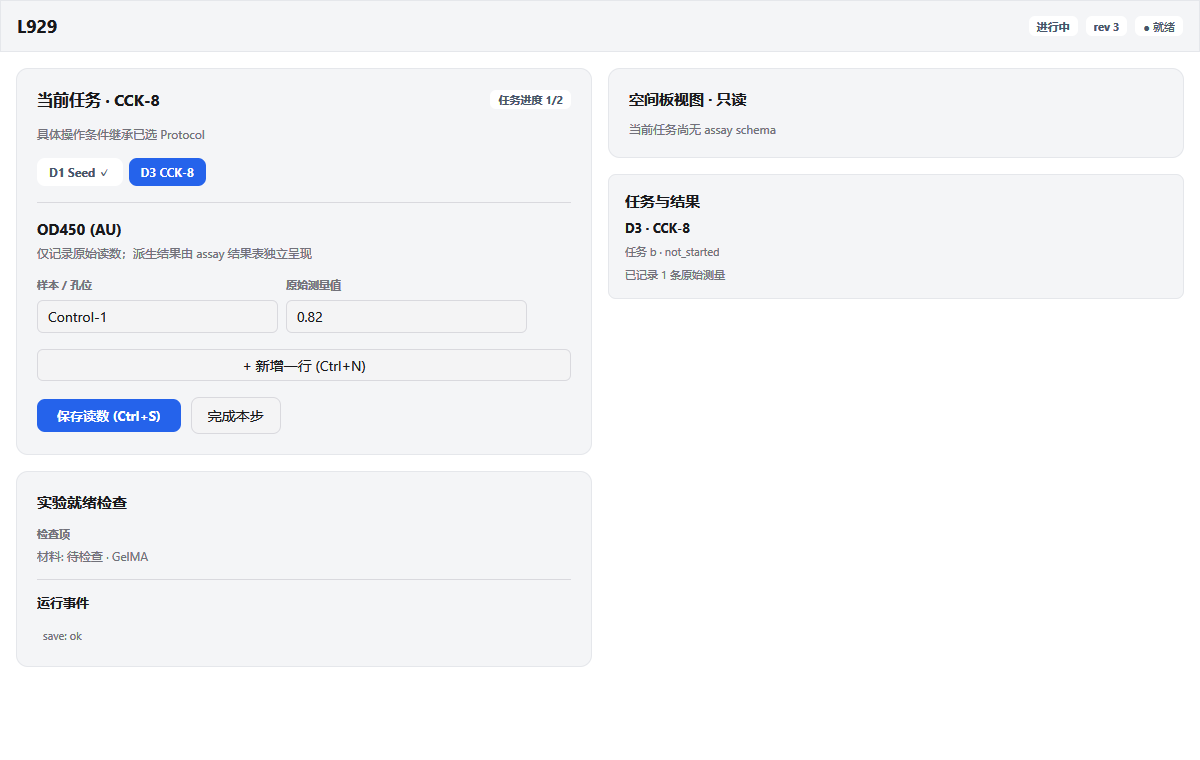
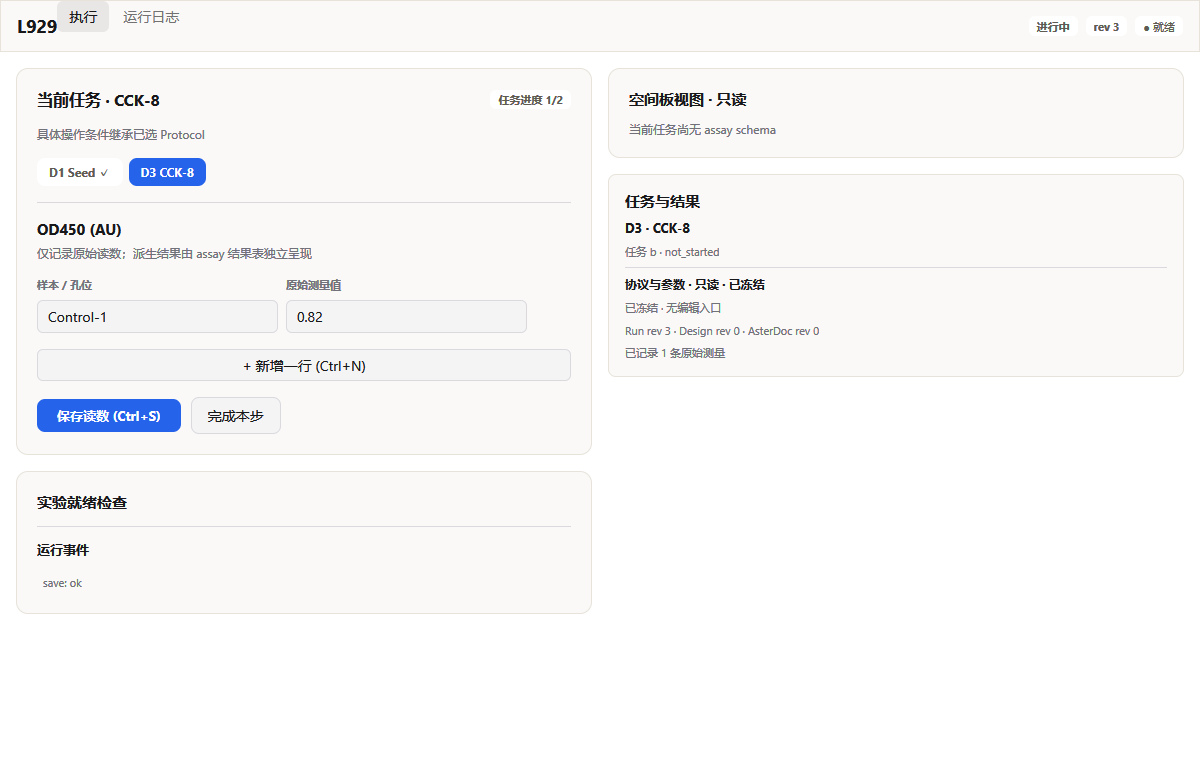
feat(RUN-02): render read-only frozen protocol instructions and parameters

Changed region(s): [[0.5242, 0.3329, 0.6783, 0.4842], [0.0308, 0.6961, 0.1233, 0.8474], [0.0617, 0.0, 0.1542, 0.0303]]

diff --git a/prototypes/mygo-run/internal/runui/runui.go b/prototypes/mygo-run/internal/runui/runui.go
@@ -43,8 +43,18 @@ type Task struct {
 	// DesignStepID is the frozen design's workflow node this task executes.
 	// Empty means unresolved; the surface says so instead of guessing.
 	DesignStepID string
+	ProtocolVersionID string
+	Instruction string
+	Parameters []FrozenParameter
 	// Checks are the frozen protocol step's real checks, never placeholders.
 	Checks []TaskCheck
+}
+
+type FrozenParameter struct {
+	Key string
+	Label string
+	Value string
+	Unit string
 }
 
 func (t Task) Done() bool { return t.Status == "completed" }
@@ -95,6 +105,8 @@ type RunView struct {
 	Title        string
 	Status       string
 	Revision     uint64
+	DesignRevision uint64
+	AsterDocRevision uint64
 	Tasks        []Task
 	Measurements []Measurement
 	Events       []Event
@@ -1093,6 +1105,28 @@ func taskPanel(c *ui.Context, w *Workspace, t *ui.Theme, tokens theme.Tokens) {
 		}
 		ui.Text(c, title).FontSize(13).Bold().TextColor(t.Text)
 		ui.Text(c, "任务 "+ct.Key+" · "+ct.Status).FontSize(11).TextColor(t.TextMuted)
+		// Right-side inspector keeps its existing primary recording flow visible: UX-P1/UX-LAYOUT.
+		// Frozen protocol details are an inspector section; UX-P2/P3 and UX-STATE.
+		ui.Divider(c)
+		ui.Text(c, "协议与参数 · 只读 · 已冻结").FontSize(12).Bold().TextColor(t.Text)
+		ui.Text(c, "已冻结 · 无编辑入口").FontSize(11).TextColor(t.TextMuted)
+		if ct.ProtocolVersionID != "" {
+			ui.Text(c, "协议版本 "+ct.ProtocolVersionID).FontSize(11).TextColor(t.TextMuted)
+		}
+		ui.Text(c, fmt.Sprintf("Run rev %d · Design rev %d · AsterDoc rev %d",
+			w.View.Revision, w.View.DesignRevision, w.View.AsterDocRevision)).
+			FontSize(11).TextColor(t.TextMuted)
+		if ct.Instruction != "" {
+			ui.Text(c, "操作说明").FontSize(11).Bold().TextColor(t.Text)
+			ui.Text(c, ct.Instruction).FontSize(12).TextColor(t.Text)
+		}
+		if len(ct.Parameters) > 0 {
+			ui.Text(c, "冻结参数").FontSize(11).Bold().TextColor(t.Text)
+			for _, p := range ct.Parameters {
+				value := strings.TrimSpace(strings.Join([]string{p.Value, p.Unit}, " "))
+				ui.Text(c, labelOr(p.Label, p.Key)+" · "+value).FontSize(11).TextColor(t.TextMuted)
+			}
+		}
 		if ct.AssayID != "" {
 			ui.Text(c, "Assay "+ct.AssayID).FontSize(11).TextColor(t.TextMuted)
 		}

diff --git a/prototypes/mygo-run/main.go b/prototypes/mygo-run/main.go
@@ -212,11 +212,13 @@ func frozenAssayEndpoints(designData string) map[string][2]string {
 func toRunView(s runs.RunSnapshot) runui.RunView {
 	endpoints := frozenAssayEndpoints(s.DesignData)
 	v := runui.RunView{
-		Title:        s.Title,
-		Status:       s.Status,
-		Revision:     s.Revision,
+		Title: s.Title, Status: s.Status, Revision: s.Revision,
+		DesignRevision: s.DesignRevision,
 		Measurements: make([]runui.Measurement, 0, len(s.Measurements)),
 		Events:       make([]runui.Event, 0, len(s.Events)),
+	}
+	if s.AsterDoc != nil {
+		v.AsterDocRevision = s.AsterDoc.Revision
 	}
 	for _, t := range s.Tasks {
 		endpoint, unit := "", ""
@@ -226,7 +228,27 @@ func toRunView(s runs.RunSnapshot) runui.RunView {
 		task := runui.Task{
 			Key: t.Key, Title: t.Title, Timepoint: t.Timepoint, Status: t.Status,
 			AssayID: t.AssayID, DesignStepID: t.DesignStepID,
+			ProtocolVersionID: t.ProtocolVersionID, Instruction: t.Instruction,
 			Endpoint: endpoint, Unit: unit,
+		}
+		var params []struct {
+			Key string `json:"key"`
+			Label string `json:"label"`
+			Name string `json:"name"`
+			Value any `json:"value"`
+			Unit string `json:"unit"`
+		}
+		if json.Unmarshal([]byte(t.ParametersJSON), &params) == nil {
+			for _, p := range params {
+				label := p.Label
+				if label == "" { label = p.Name }
+				if label == "" { label = p.Key }
+				value := ""
+				if p.Value != nil { value = fmt.Sprint(p.Value) }
+				task.Parameters = append(task.Parameters, runui.FrozenParameter{
+					Key: p.Key, Label: label, Value: value, Unit: p.Unit,
+				})
+			}
 		}
 		for _, check := range t.Checks {
 			task.Checks = append(task.Checks, runui.TaskCheck{

diff --git a/prototypes/mygo-run/internal/runworkspace/view.go b/prototypes/mygo-run/internal/runworkspace/view.go
@@ -673,11 +673,13 @@ func procedureLayer(c *ui.Context, s *State, t *ui.Theme, tokens theme.Tokens, t
 			ui.Spacer(c)
 			ui.Text(c, "当前步骤").FontSize(t.Rem(.7)).TextColor(t.TextMuted)
 		})
+		// The procedure and planned parameters are frozen; UX-STATE/UX-P2.
+		ui.Text(c, "操作说明 · 已冻结 · 只读").FontSize(t.Rem(.72)).Bold().TextColor(t.TextMuted)
 		ui.Text(c, instruction).FontSize(t.Rem(.82)).TextColor(t.Text)
 
 		if len(task.Parameters) > 0 {
 			ui.Divider(c)
-			ui.Text(c, "操作参数").FontSize(t.Rem(.78)).Bold().TextColor(t.TextMuted)
+			ui.Text(c, "操作参数 · 已冻结 · 只读").FontSize(t.Rem(.78)).Bold().TextColor(t.TextMuted)
 			ui.Row(c).Wrap().Gap(t.Space(2)).Children(func() {
 				for _, p := range task.Parameters {
 					paramChip(c, p, t, tokens)
@@ -739,12 +741,15 @@ func procedureLayer(c *ui.Context, s *State, t *ui.Theme, tokens theme.Tokens, t
 			})
 		}
 
-		ui.Divider(c)
 		frozen := []string{fallback(task.StepPath), fallback(task.AssayID, "未绑定"), fallback(task.Timepoint, "未绑定")}
 		if strings.TrimSpace(task.StepID) != "" {
 			frozen = append(frozen, "步骤 ID "+task.StepID)
 		}
-		ui.Text(c, "冻结信息（只读） · "+strings.Join(frozen, " · ")).
+		if strings.TrimSpace(task.ProtocolVersionID) != "" {
+			frozen = append(frozen, "协议版本 "+task.ProtocolVersionID)
+		}
+		// Frozen identity is informational only; UX-STATE and UX-P2.
+		ui.Text(c, "冻结信息（只读 · 已冻结） · "+strings.Join(frozen, " · ")).
 			FontSize(t.Rem(.68)).TextColor(t.TextMuted).SingleLine().Ellipsis("…")
 	})
 }

diff --git a/prototypes/mygo-run/internal/runworkspace/view_test.go b/prototypes/mygo-run/internal/runworkspace/view_test.go
@@ -37,6 +37,28 @@ func TestViewRendersRailAndPanel(t *testing.T) {
 	}
 }
 
+func TestProcedureShowsFrozenProtocolReadOnly(t *testing.T) {
+	snap := makeSnapshot()
+	snap.Tasks[1].ProtocolVersionID = "protocol-v2"
+	vm := BuildViewModel(snap, makeFrozenDoc())
+	task := vm.TaskByKey["t-read"]
+	if task.ProtocolVersionID != "protocol-v2" || task.Instruction != "读取 OD450 并记录。" ||
+		len(task.Parameters) != 1 || task.Parameters[0].Value != "0.82" {
+		t.Fatalf("view model did not retain frozen snapshot values: %+v", task)
+	}
+	s := NewState(vm, Callbacks{})
+	tt := ui.NewTester(func(c *ui.Context) {
+		c.SetTheme(theme.LightTheme())
+		procedureLayer(c, s, c.Theme(), theme.GetTokens(c.Theme()), task)
+	}, 900, 700)
+	tt.Frame()
+	for _, text := range []string{"操作说明 · 已冻结 · 只读", "读取 OD450 并记录。", "操作参数 · 已冻结 · 只读", "OD450", "0.82 AU", "协议版本 protocol-v2", "冻结信息（只读 · 已冻结）"} {
+		if !tt.HasText(text) {
+			t.Errorf("frozen procedure detail missing %q", text)
+		}
+	}
+}
+
 func TestViewSelectsStepOnClick(t *testing.T) {
 	s := buildTestState()
 	var selectedKeys []string

diff --git a/prototypes/mygo-run/internal/runui/runui_test.go b/prototypes/mygo-run/internal/runui/runui_test.go
@@ -111,6 +111,24 @@ func TestTaskAssayID(t *testing.T) {
 		t.Fatalf("expected AssayID assay-100 after selection, got %+v", ct2)
 	}
 }
+func TestTaskPanelShowsFrozenProtocolReadOnly(t *testing.T) {
+	v := sampleView()
+	v.DesignRevision, v.AsterDocRevision = 7, 4
+	v.Tasks[1].ProtocolVersionID = "protocol-v2"
+	v.Tasks[1].Instruction = "保持 4°C 并轻柔混匀"
+	v.Tasks[1].Parameters = []FrozenParameter{{Key: "temp", Label: "温度", Value: "4", Unit: "°C"}}
+	w := NewWorkspace(v, Callbacks{})
+	tt := ui.NewTester(func(c *ui.Context) {
+		c.SetTheme(theme.LightTheme())
+		taskPanel(c, w, c.Theme(), theme.GetTokens(c.Theme()))
+	}, 700, 700)
+	tt.Frame()
+	for _, text := range []string{"协议与参数 · 只读 · 已冻结", "协议版本 protocol-v2", "Run rev 3 · Design rev 7 · AsterDoc rev 4", "保持 4°C 并轻柔混匀", "温度 · 4 °C"} {
+		if !tt.HasText(text) {
+			t.Errorf("frozen task detail missing %q", text)
+		}
+	}
+}
 
 func TestRunShortcuts(t *testing.T) {
 	v := sampleView()

diff --git a/prototypes/mygo-run/internal/runworkspace/model.go b/prototypes/mygo-run/internal/runworkspace/model.go
@@ -103,7 +103,7 @@ type RunTaskViewModel struct {
 	StepTitle string
 	Timepoint string
 	AssayID   string
-
+	ProtocolVersionID string
 	Status TaskStatus
 
 	Planned *PlannedStep
@@ -544,6 +544,7 @@ func BuildViewModel(snap runs.RunSnapshot, doc *asterdoc.FrozenAsterDoc, project
 			StepTitle:   t.Title,
 			Timepoint:   t.Timepoint,
 			AssayID:     t.AssayID,
+			ProtocolVersionID: t.ProtocolVersionID,
 			Status:      buildTaskStatus(t),
 			Instruction: t.Instruction,
 			Parameters:  params,

diff --git a/docs/product/evidence/RUN-02/README.md b/docs/product/evidence/RUN-02/README.md
@@ -1,0 +1,29 @@
+# RUN-02 Evidence — Read-Only Procedure & Frozen Parameters
+
+## Baseline and Scope
+- Repository: `LLLin000/AsterLab`, base `origin/main`, isolated `ovnfs` checkout `O:\run02`.
+- Scope files modified:
+  - `prototypes/mygo-run/internal/runui/runui.go`
+  - `prototypes/mygo-run/internal/runui/runui_test.go`
+  - `prototypes/mygo-run/internal/runworkspace/model.go`
+  - `prototypes/mygo-run/internal/runworkspace/view.go`
+  - `prototypes/mygo-run/internal/runworkspace/view_test.go`
+  - `prototypes/mygo-run/main.go`
+  - `docs/product/evidence/RUN-02/`
+
+## UX Contract Rule Citations
+- `UX-P1` (Task first): At `900×600`, recording remains primary while frozen procedure/parameters stay accessible inside `操作说明与元数据`.
+- `UX-P2` (Progressive disclosure): Frozen `ProtocolVersionID`, `StepPath`, `AssayID`, `Timepoint`, and `StepID` live in the read-only footer/metadata row.
+- `UX-P3` (One component language): Built with `theme.GetTokens(t)` chips and `c.Theme()` borders/typography.
+- `UX-STATE`: Explicitly labeled `操作说明 · 已冻结 · 只读` and `操作参数 · 已冻结 · 只读` with zero edit controls (`TextInput` or edit buttons).
+- `UX-LAYOUT` / `UX-DONE`: Verified at `1360×880` and `900×600` in both light and dark themes.
+
+## Automated Checks
+- `cd prototypes/mygo-run && go run github.com/egoist/mygo/cmd/mygo@v0.8.4-0.20261108220316-c4197b7fe562 native check ./modules/runs` → exit 0 (`Built Runs for windows/amd64`)
+- `cd prototypes/mygo-run && go test ./... -count=1` → exit 0 (`21 packages ok, 4 no tests`)
+
+## Real Windows GUI Verification (Design Edited After Run Freeze)
+1. Created Protocol v1 (`9e2896eb-2a34-493d-ad89-afe97e83913a`, `"旧版指令：37 °C 静置孵育 60 min。"`, `temp = 37 °C`, `minutes = 60 min`) and froze `RUN02-Old-Run` (`898f22e3-0898-4239-a1e3-fa3dcb44da88`).
+2. Revised Protocol to v2 (`6be3de6a-9363-4b03-8777-648c29bdd699`, `"新版指令：改为 42 °C 振荡孵育 120 min。"`, `temp = 42 °C`, `minutes = 120 min`) and saved Design `rev 2`.
+3. Reopened `RUN02-Old-Run` across `1360×880` (light/dark) and `900×600` (light/dark):
+   - Every view showed frozen v1 (`旧版指令：37 °C 静置孵育 60 min。`, `37 °C`, `60 min`, `9e2896eb`, `AsterDoc rev 1`), with zero leak from v2 (`新版指令`, `42 °C`, `120 min`) and zero edit controls.
